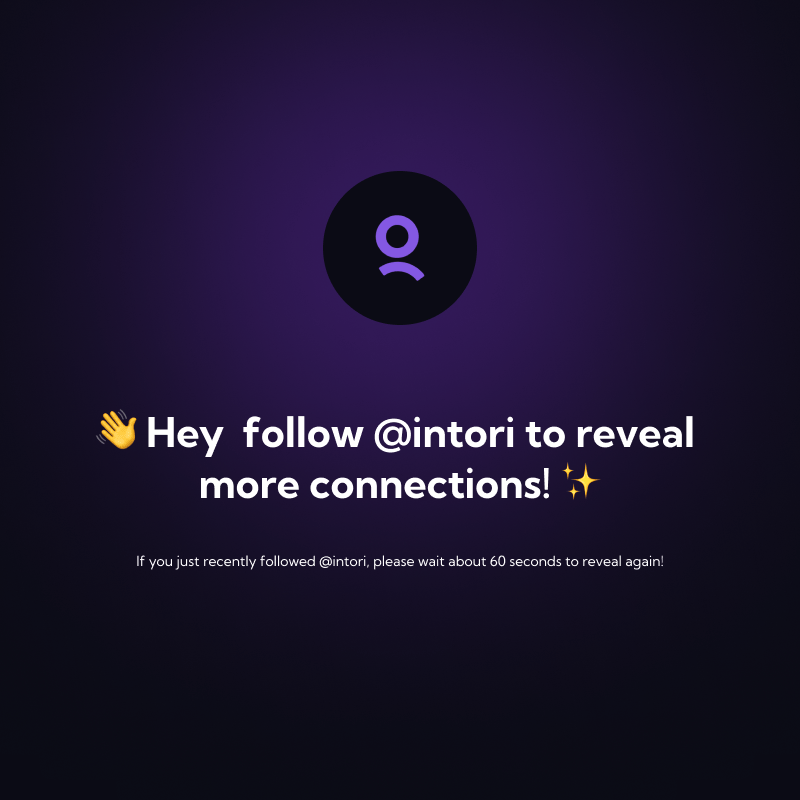
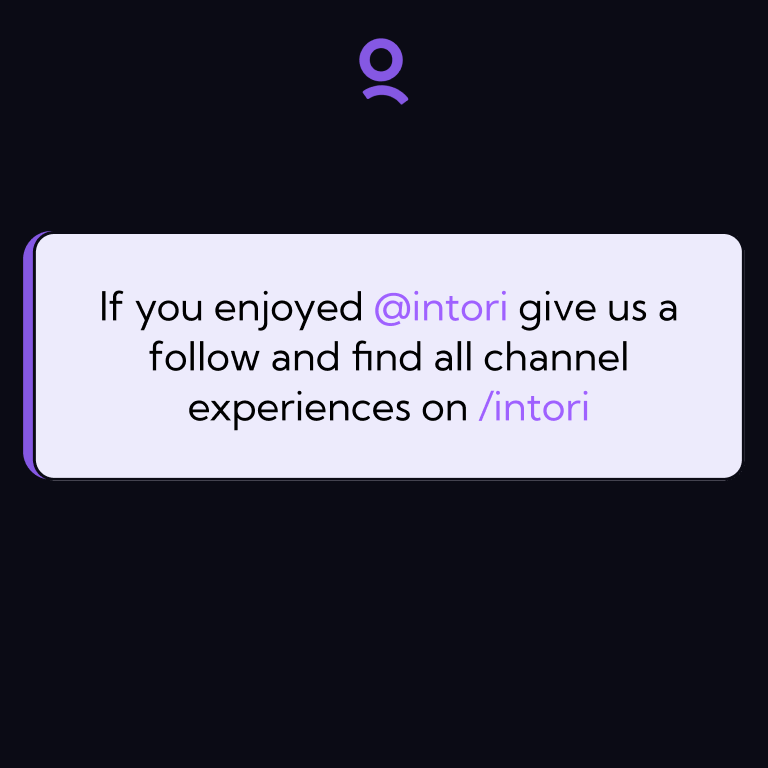
Redirec to follow intori frame with updated images instead of channels

diff --git a/pages/frames/followIntori.tsx b/pages/frames/followIntori.tsx
@@ -5,10 +5,6 @@ import {
     IntoriFrameType,
     IntoriFrameInputType
 } from '../../utils/frames/intoriFrameForms'
-import { createNextRevealUrl } from '../../utils/urls'
-import {
-  getFrameSessionById
-} from '../../models/frameSession'
  
 type Props = {
   imageUrl: string
@@ -16,28 +12,7 @@ type Props = {
   frame: IntoriFrameType
 }
  
-export const getServerSideProps = (async (context) => {
-  if (!context?.query.fsid) {
-    return {
-      redirect: {
-        destination: '/frames/error',
-        permanent: false
-      }
-    }
-  }
-
-  const frameSessionId = context.query.fsid?.toString() as string
-
-  const session = await getFrameSessionById(frameSessionId)
-
-  if (!session) {
-    return {
-      redirect: {
-        destination: '/frames/error',
-        permanent: false
-      }
-    }
-  }
+export const getServerSideProps = (async () => {
   const frameUrl = `${process.env.NEXTAUTH_URL}/frames/begin`
   const imageUrl = `${process.env.NEXTAUTH_URL}/assets/templates/follow_required.png`
 
@@ -47,13 +22,14 @@ export const getServerSideProps = (async (context) => {
     type: 'button',
     action: 'link',
     target: `https://warpcast.com/intori`,
-    content: '@intori'
+    content: 'Follow @intori'
   })
 
   inputs.push({
     type: 'button',
-    postUrl: createNextRevealUrl({ fsid: session.id }),
-    content: '✨ Reveal'
+    action: 'link',
+    target: `https://warpcast.com/~/channel/intori`,
+    content: 'Visit /intori'
   })
 
   const frame: IntoriFrameType = {

diff --git a/pages/api/frames/reveal.ts b/pages/api/frames/reveal.ts
@@ -4,7 +4,7 @@ import { validateFarcasterPacketMessage } from '../utils/farcasterServer'
 import {
   createFrameResultsUrl,
   createFrameErrorUrl,
-  createCheckoutTheseChannelsUrl
+  createFollowIntoriUrl
 } from '../../../utils/urls'
 import { incrementSuggestionsRevealed } from '../../../models/frameSession'
 import { updateSuggestionRating } from '../../../models/suggestionRating'
@@ -50,7 +50,7 @@ const revealNextSuggestion = async (
   if (session.suggestionsRevealed + 1 === 3) {
     return res.redirect(
       307,
-      createCheckoutTheseChannelsUrl()
+      createFollowIntoriUrl()
     )
   }
 

diff --git a/utils/urls.ts b/utils/urls.ts
@@ -102,11 +102,8 @@ export const createNextRevealUrl = (params: {
   return `${process.env.NEXTAUTH_URL}/api/frames/reveal?${queryParts.join('&')}`
 }
 
-export const createFollowIntoriUrl = (params: {
-  fsid: string
-}) => {
-  const { fsid } = params
-  return `${process.env.NEXTAUTH_URL}/frames/followIntori?fsid=${fsid}`
+export const createFollowIntoriUrl = () => {
+  return `${process.env.NEXTAUTH_URL}/frames/followIntori`
 }
 
 export const createNoMatchesFoundUrl = (params: {
